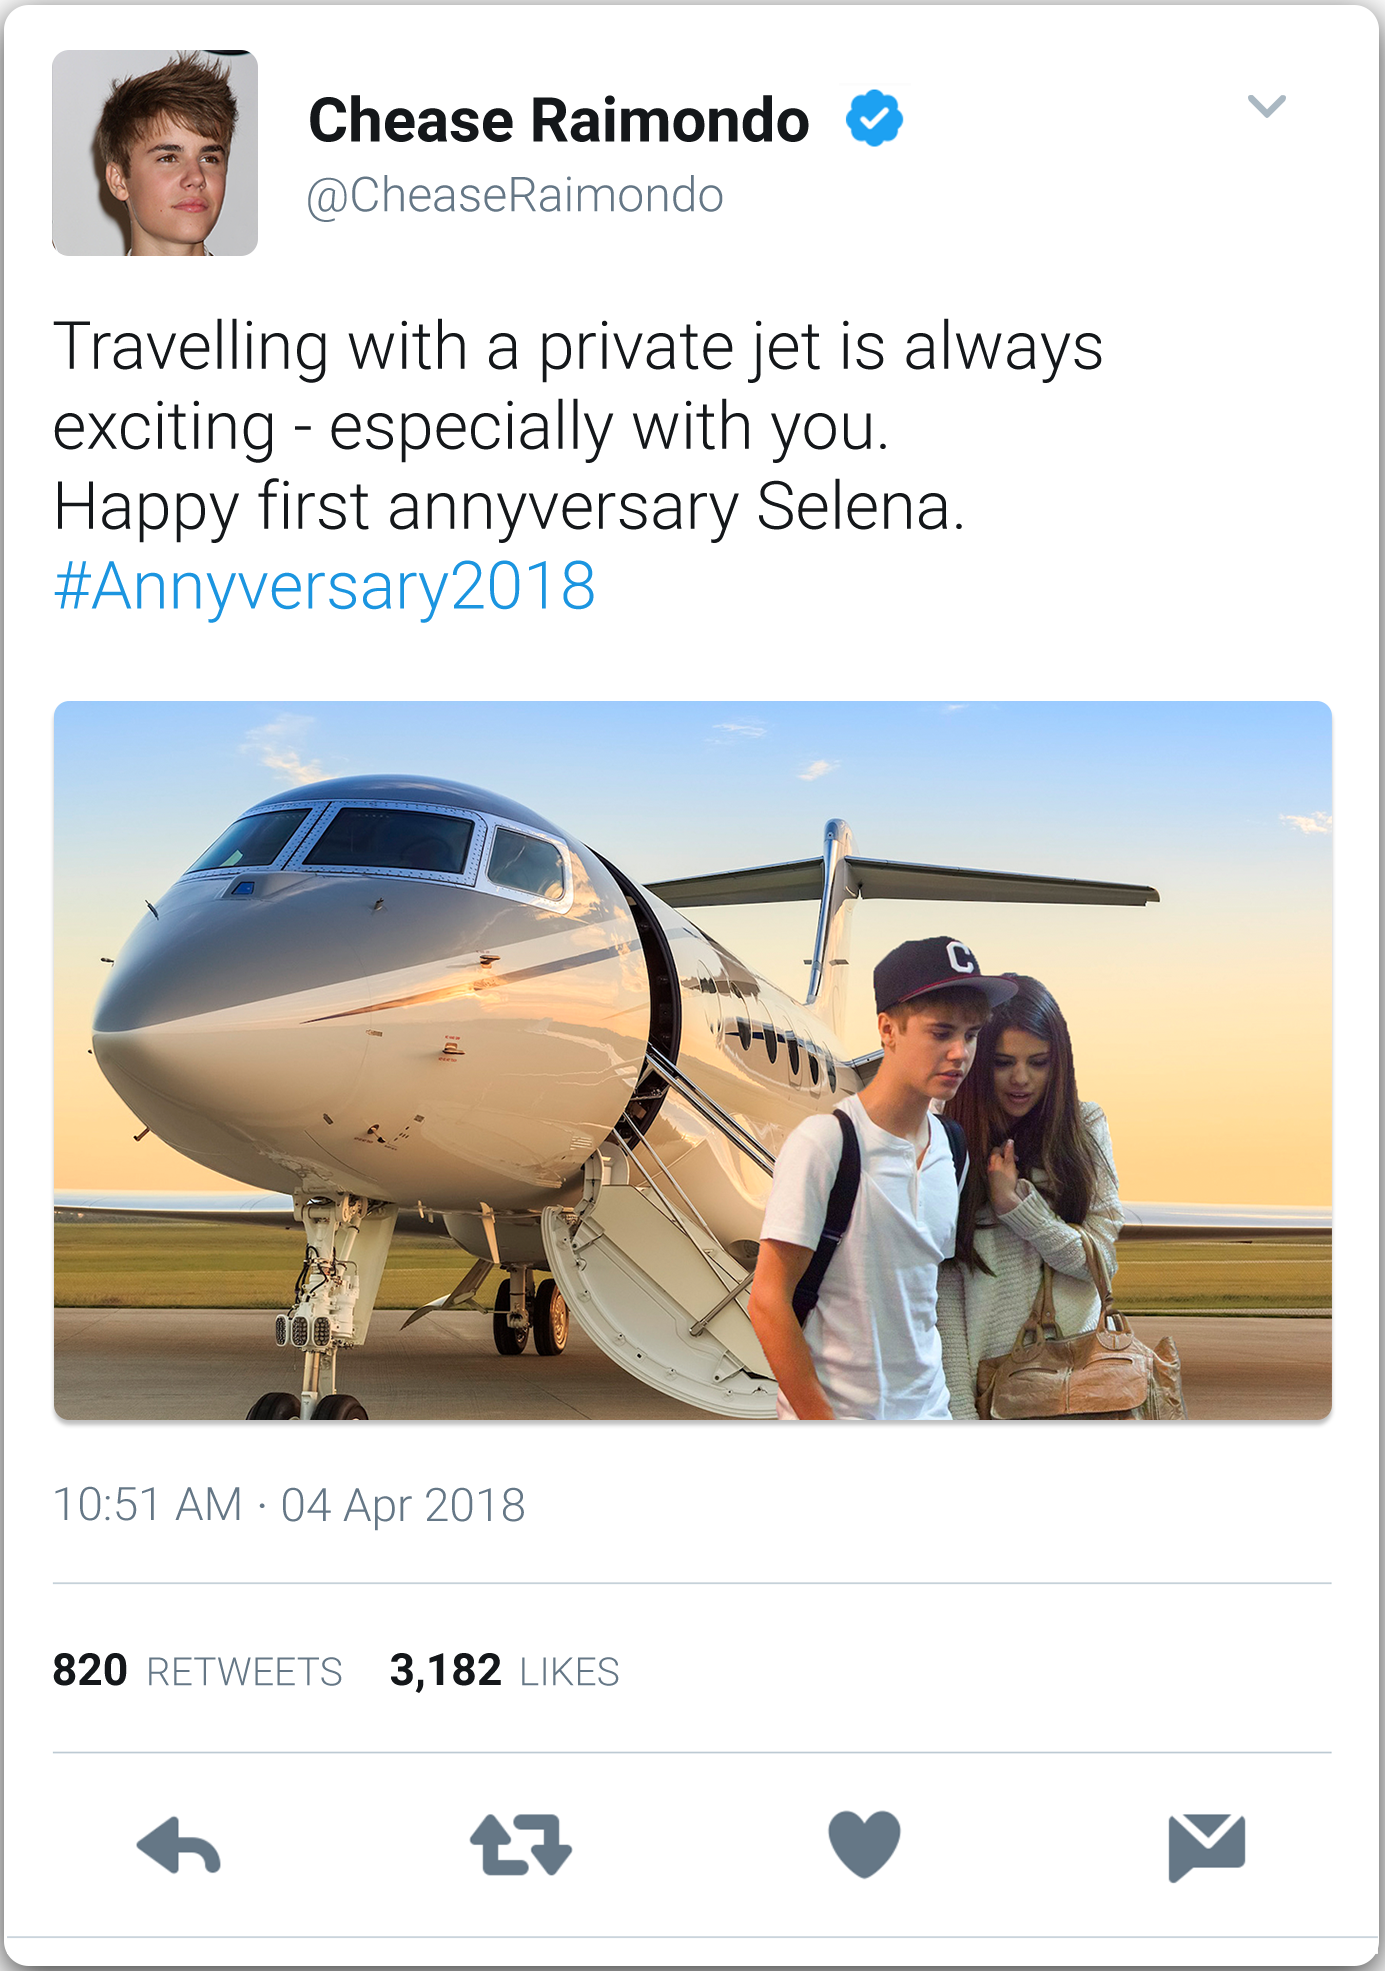
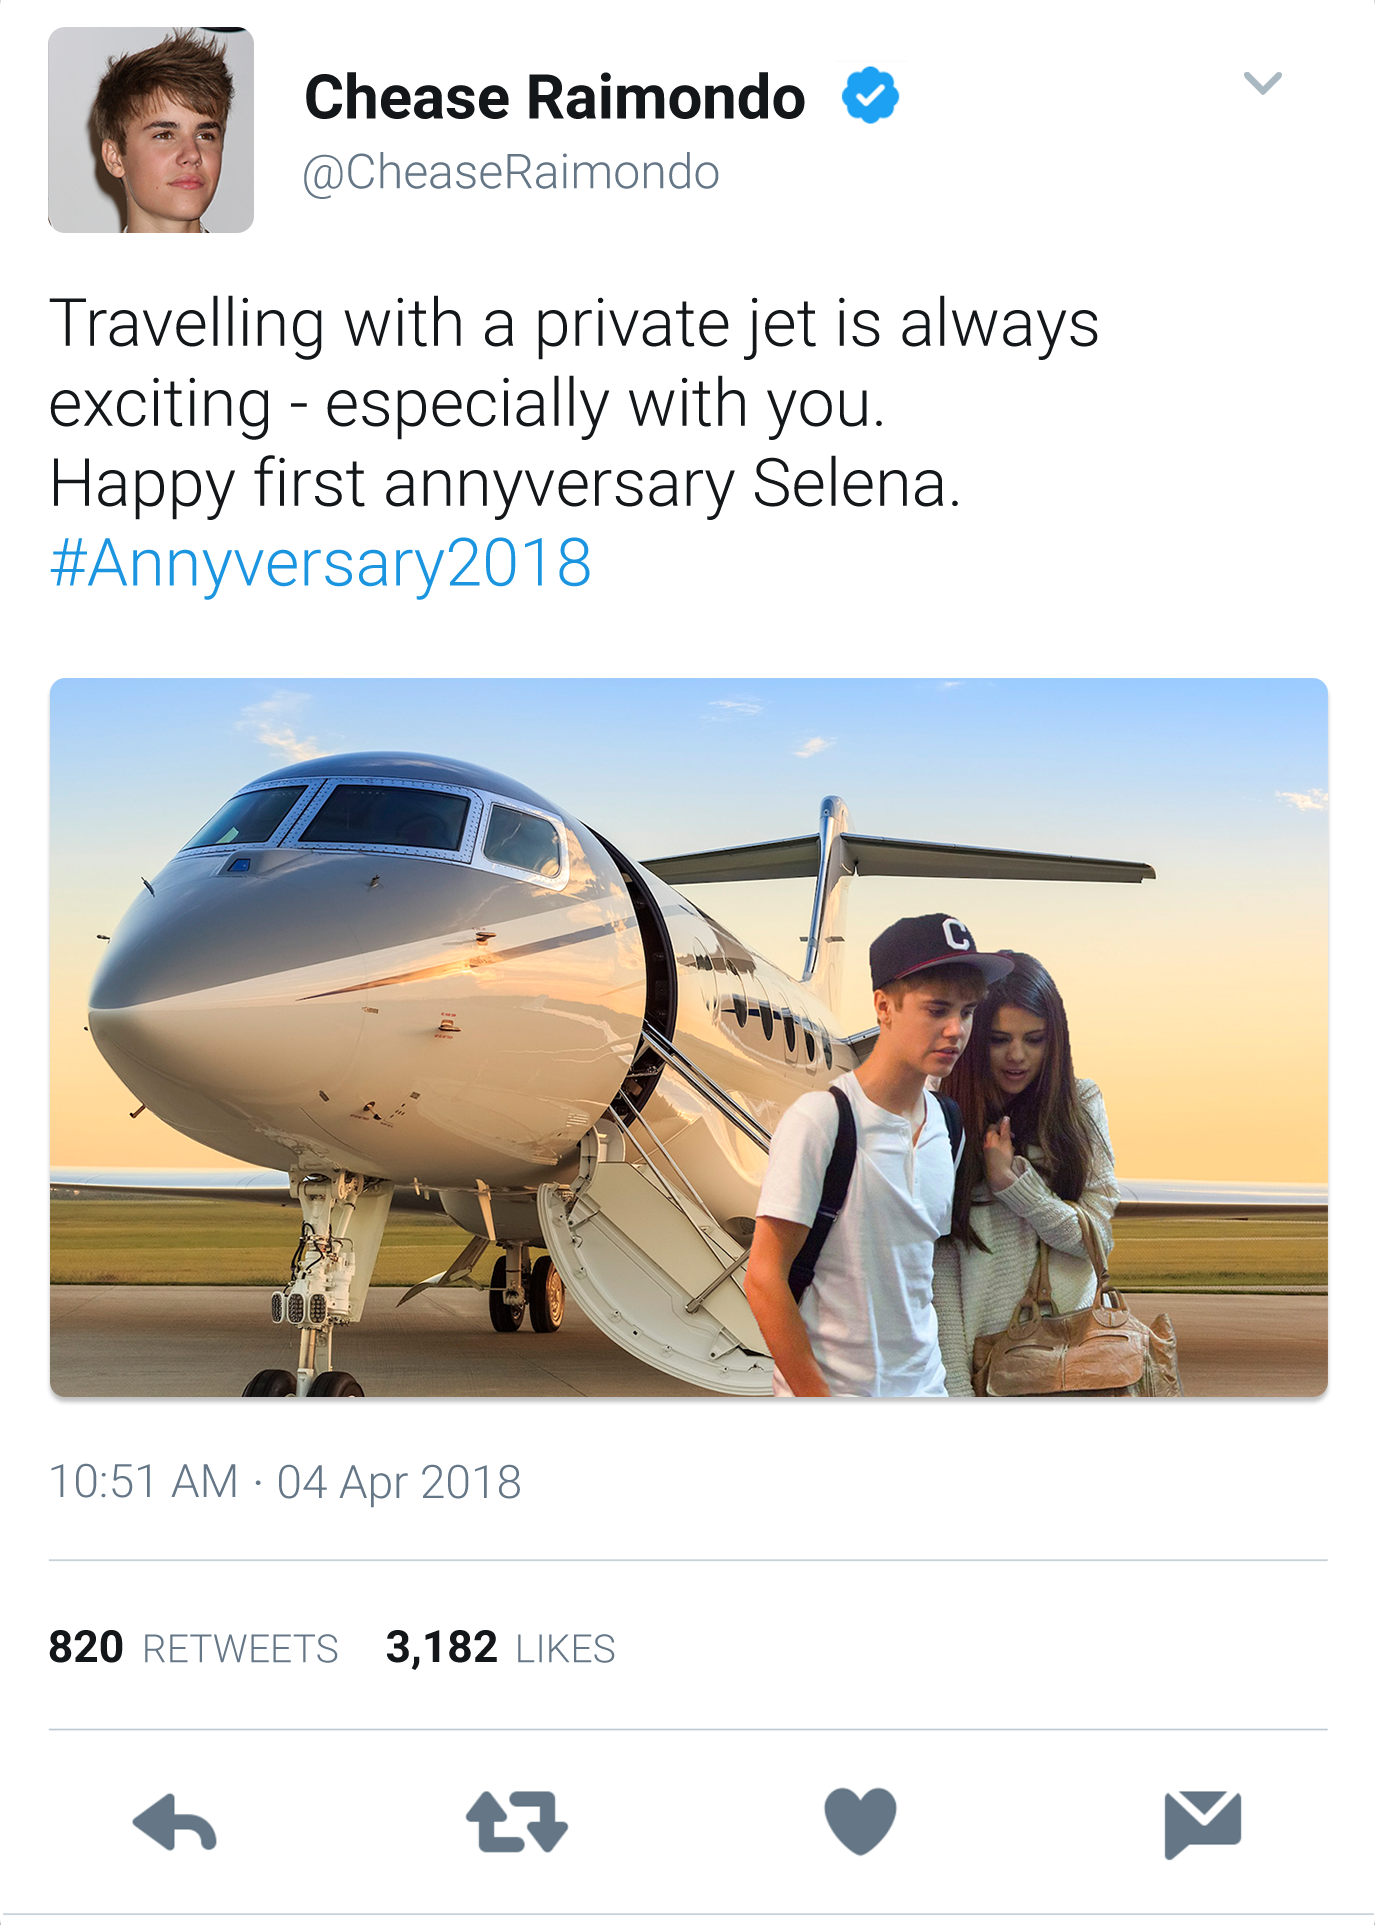
images

diff --git a/css/detailed.css b/css/detailed.css
@@ -13,7 +13,7 @@
 }
 
 .gallery-item.tweet {
-    aspect-ratio: 90 / 128;
+    aspect-ratio: 5 / 7;
 }
 
 /* 1 item */
